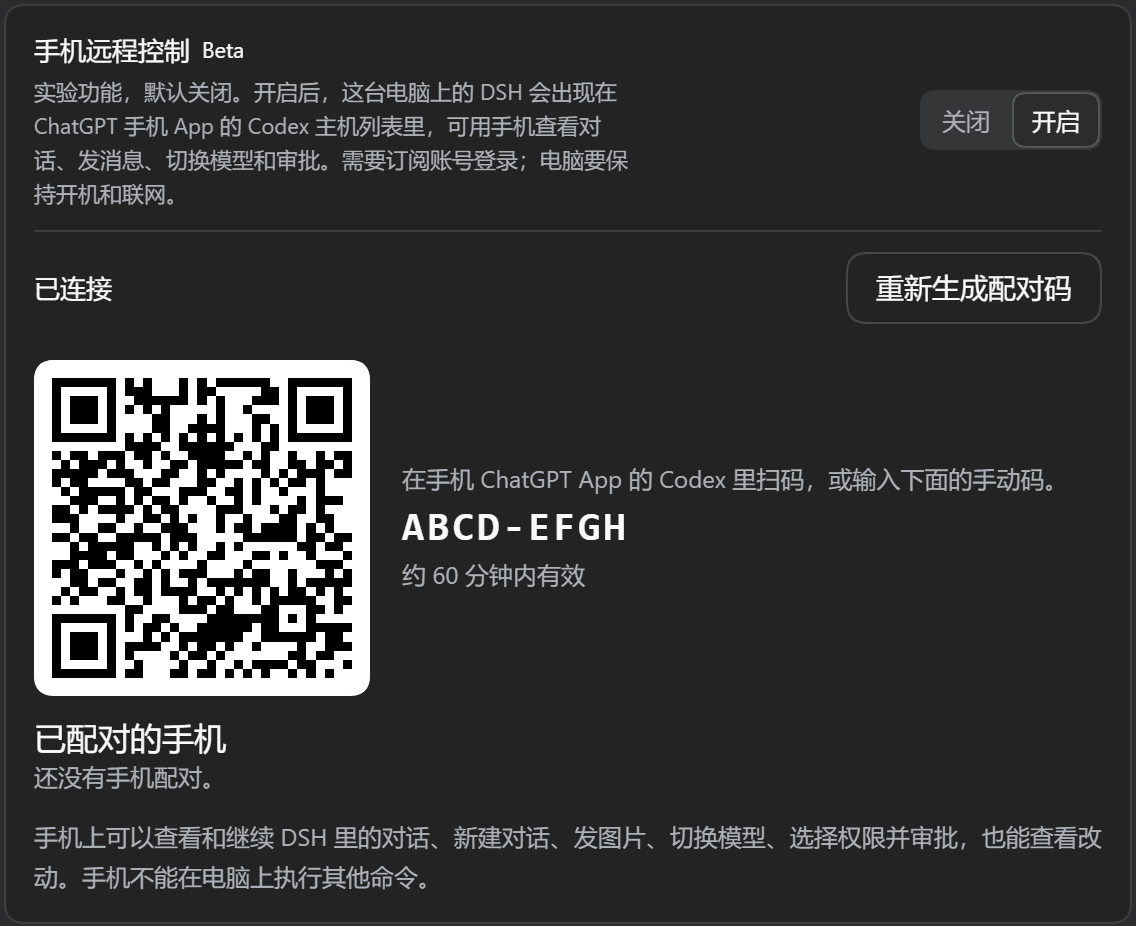
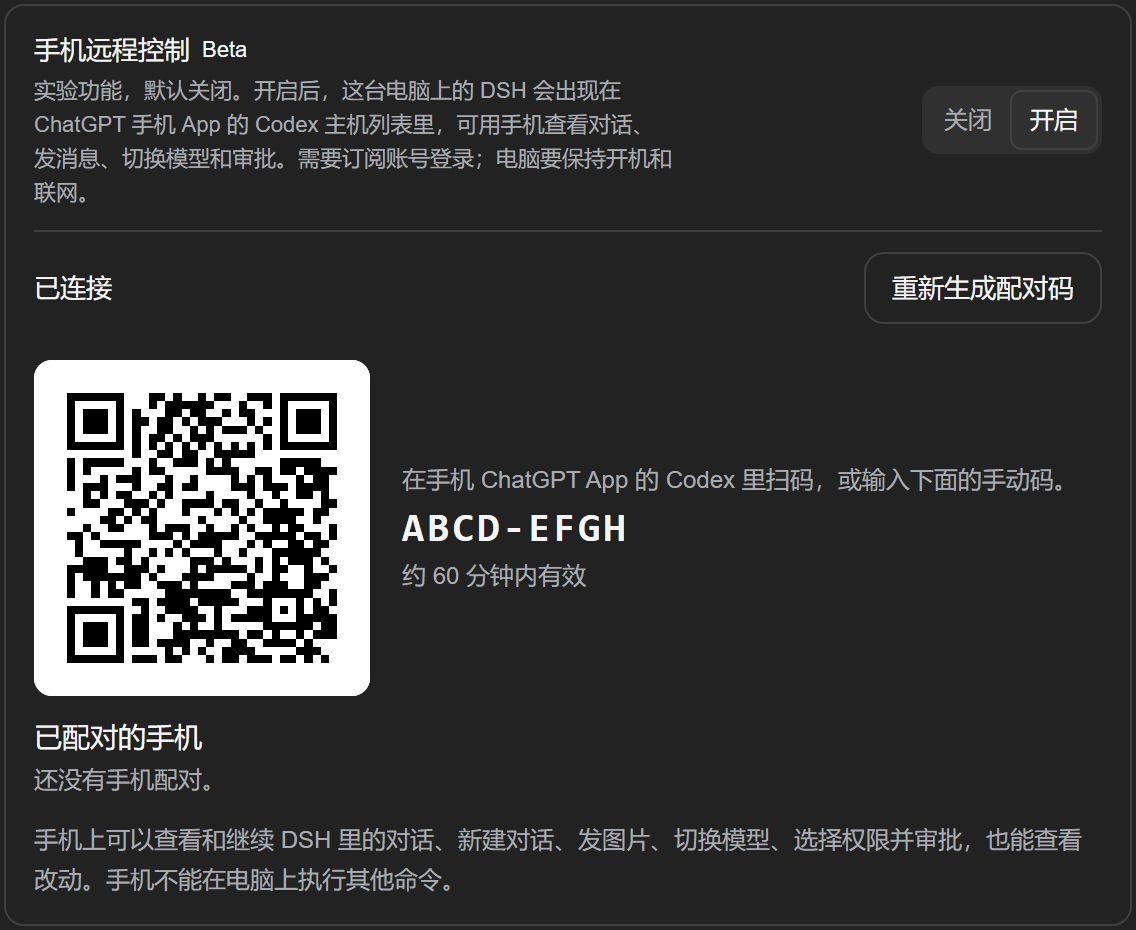
docs: point demo QR codes to localized whale feeding page

diff --git a/README.en.md b/README.en.md
@@ -239,6 +239,8 @@ This is a third-party compatibility layer using OpenAI's remote connection servi
 
 <p align="center"><picture><source media="(prefers-color-scheme: dark)" srcset="docs/assets/ui-remote-en-dark.png"><img src="docs/assets/ui-remote-en-light.png" width="560" alt="Phone remote control in settings: the switch, pairing QR code and manual code, paired phones"></picture></p>
 
+<p align="center"><sub>The screenshot’s QR code hides a little Easter egg. To pair your phone, use the code generated in DSH settings.</sub></p>
+
 </details>
 
 ## All features
